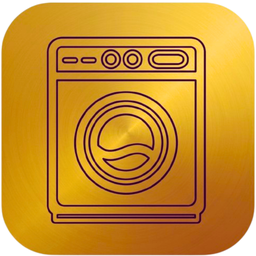
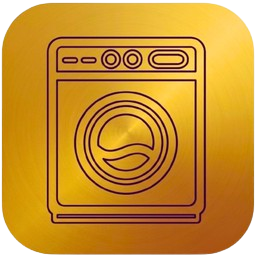
v2.6.1

diff --git a/custom_components/mielelogic/booking_manager.py b/custom_components/mielelogic/booking_manager.py
@@ -1,4 +1,4 @@
-# VERSION = "2.5.4"
+# VERSION = "2.6.1"
 """Manage booking and cancellation operations."""
 import logging
 from typing import Dict, List
@@ -13,11 +13,23 @@ _LOGGER = logging.getLogger(__name__)
 class BookingManager:
     """Handle booking and cancellation logic."""
 
-    def __init__(self, coordinator, store=None, notification_manager=None):
+    def __init__(self, coordinator, store=None, notification_manager=None, caldav_client=None):
         self.coordinator = coordinator
         self.hass = coordinator.hass
         self.store = store
         self.notification_manager = notification_manager
+        # v2.6.0: optional direct CalDAV client, used only for deletion since
+        # HA's CalDAV integration doesn't support calendar.delete_event.
+        self.caldav_client = caldav_client
+
+    def _caldav_calendar_name(self, entity_id: str | None) -> str | None:
+        """Best-effort mapping from a HA calendar entity_id to its CalDAV display name."""
+        if not entity_id:
+            return None
+        state = self.hass.states.get(entity_id)
+        if state and state.attributes.get("friendly_name"):
+            return state.attributes["friendly_name"]
+        return None
 
     def _get_time_manager(self):
         """Get time_manager — prefer runtime_data."""
@@ -178,10 +190,6 @@ class BookingManager:
             if not target_calendar:
                 return
 
-            if not self.hass.services.has_service("calendar", "get_events"):
-                _LOGGER.debug("calendar.get_events not available — skipping calendar delete")
-                return
-
             time_manager = self._get_time_manager()
             vaskehus = time_manager.get_vaskehus_for_machine(machine_number) if time_manager else None
             if not vaskehus:
@@ -198,6 +206,30 @@ class BookingManager:
 
             window_start = (start_dt - timedelta(hours=1)).astimezone(ZoneInfo("UTC"))
             window_end   = (start_dt + timedelta(hours=1)).astimezone(ZoneInfo("UTC"))
+
+            # v2.6.0: try direct CalDAV deletion first — HA's CalDAV integration
+            # doesn't support calendar.delete_event (home-assistant/core#159784),
+            # so the service-based path below always fails silently for it.
+            if self.caldav_client:
+                calendar_name = self._caldav_calendar_name(target_calendar)
+                if calendar_name:
+                    deleted = await self.caldav_client.delete_event(
+                        calendar_name, summary, window_start, window_end
+                    )
+                    if deleted:
+                        if self.store:
+                            await self.store.async_remove_calendar_synced_event(machine_number, start_time)
+                        self.coordinator._created_events.discard((machine_number, start_time))
+                        _LOGGER.info("Deleted calendar event via CalDAV: %s at %s", summary, start_time)
+                        return
+                    _LOGGER.debug(
+                        "CalDAV direct delete found nothing for '%s' — falling back to HA calendar service",
+                        summary,
+                    )
+
+            if not self.hass.services.has_service("calendar", "get_events"):
+                _LOGGER.debug("calendar.get_events not available — skipping calendar delete")
+                return
 
             response = await self.hass.services.async_call(
                 "calendar", "get_events",
@@ -353,6 +385,21 @@ class BookingManager:
         window_end   = (start_dt + timedelta(hours=1)).astimezone(ZoneInfo("UTC"))
 
         for calendar_entity_id in secondary_calendars:
+            # v2.6.0: try direct CalDAV deletion first (see _delete_calendar_event)
+            if self.caldav_client:
+                calendar_name = self._caldav_calendar_name(calendar_entity_id)
+                if calendar_name:
+                    deleted = await self.caldav_client.delete_event(
+                        calendar_name, summary, window_start, window_end
+                    )
+                    if deleted:
+                        _LOGGER.info("Deleted secondary calendar event via CalDAV in %s", calendar_entity_id)
+                        continue
+                    _LOGGER.debug(
+                        "CalDAV direct delete found nothing on secondary '%s' — falling back to HA calendar service",
+                        calendar_entity_id,
+                    )
+
             try:
                 response = await self.hass.services.async_call(
                     "calendar", "get_events",

diff --git a/custom_components/mielelogic/caldav_client.py b/custom_components/mielelogic/caldav_client.py
@@ -1,0 +1,107 @@
+# VERSION = "2.6.1"
+"""Direct CalDAV client used only for deleting calendar events.
+
+Home Assistant's built-in CalDAV integration does not implement the
+DELETE_EVENT entity feature (see home-assistant/core#159784), so the
+`calendar.delete_event` service always fails for CalDAV-backed calendars
+even though `get_events`/`create_event` work fine. This module talks to
+the CalDAV server directly (via the `caldav` package) to find and delete
+the matching event, bypassing the HA calendar entity for deletion only.
+Event creation still goes through `calendar.create_event` as before.
+"""
+import logging
+from datetime import datetime
+
+from homeassistant.core import HomeAssistant
+
+_LOGGER = logging.getLogger(__name__)
+
+
+class CalDAVDeleteClient:
+    """Minimal, read/delete-only CalDAV client.
+
+    Connects lazily on first use and caches the calendar list for the
+    lifetime of this instance (recreated on integration reload).
+    """
+
+    def __init__(self, hass: HomeAssistant, url: str, username: str, password: str) -> None:
+        self.hass = hass
+        self.url = url
+        self.username = username
+        self.password = password
+        self._calendars_by_name: dict | None = None
+
+    def _connect_and_list_calendars(self) -> dict:
+        """Blocking: connect to the CalDAV server and index calendars by display name."""
+        import caldav
+
+        client = caldav.DAVClient(url=self.url, username=self.username, password=self.password)
+        principal = client.principal()
+        result: dict = {}
+        for cal in principal.calendars():
+            try:
+                name = cal.get_display_name() or cal.name
+            except Exception:
+                name = getattr(cal, "name", None)
+            if name:
+                result[name] = cal
+        return result
+
+    async def _get_calendars(self) -> dict:
+        if self._calendars_by_name is None:
+            self._calendars_by_name = await self.hass.async_add_executor_job(
+                self._connect_and_list_calendars
+            )
+        return self._calendars_by_name
+
+    def _search_and_delete(self, cal, summary: str, window_start: datetime, window_end: datetime) -> bool:
+        """Blocking: search a time window on one calendar and delete the first summary match."""
+        events = cal.date_search(start=window_start, end=window_end)
+        for event in events:
+            try:
+                event.load()
+                event_summary = str(event.vobject_instance.vevent.summary.value)
+            except Exception:
+                continue
+            if event_summary == summary:
+                event.delete()
+                return True
+        return False
+
+    async def delete_event(
+        self, calendar_name: str, summary: str, window_start_utc: datetime, window_end_utc: datetime
+    ) -> bool:
+        """Find and delete the first event matching `summary` in the given UTC window.
+
+        Returns True if an event was found and deleted, False otherwise —
+        including when the calendar can't be matched by name or the
+        connection fails. Callers should fall back to the HA service path
+        (calendar.delete_event) when this returns False, in case the target
+        calendar is not CalDAV-backed or the name lookup didn't match.
+        """
+        try:
+            calendars = await self._get_calendars()
+        except Exception as err:
+            _LOGGER.warning("CalDAV: could not connect to %s: %s", self.url, err)
+            return False
+
+        cal = calendars.get(calendar_name)
+        if not cal:
+            _LOGGER.debug(
+                "CalDAV: calendar '%s' not found among %s", calendar_name, list(calendars.keys())
+            )
+            return False
+
+        try:
+            deleted = await self.hass.async_add_executor_job(
+                self._search_and_delete, cal, summary, window_start_utc, window_end_utc
+            )
+        except Exception as err:
+            _LOGGER.warning("CalDAV: delete failed for '%s' on '%s': %s", summary, calendar_name, err)
+            return False
+
+        if deleted:
+            _LOGGER.info("✅ CalDAV: deleted event '%s' from '%s'", summary, calendar_name)
+        else:
+            _LOGGER.debug("CalDAV: no matching event '%s' found on '%s'", summary, calendar_name)
+        return deleted

diff --git a/custom_components/mielelogic/config_flow.py b/custom_components/mielelogic/config_flow.py
@@ -1,4 +1,4 @@
-# VERSION = "2.5.4"
+# VERSION = "2.6.1"
 import logging
 import aiohttp
 import voluptuous as vol
@@ -26,6 +26,9 @@ from .const import (
     DEFAULT_REQUIRE_ADMIN,
     CONF_PRIMARY_CALENDAR,
     CONF_SECONDARY_CALENDARS,
+    CONF_CALDAV_URL,
+    CONF_CALDAV_USERNAME,
+    CONF_CALDAV_PASSWORD,
 )
 
 _LOGGER = logging.getLogger(__name__)
@@ -440,6 +443,15 @@ class MieleLogicOptionsFlowHandler(config_entries.OptionsFlow):
 
                 new_data[CONF_SECONDARY_CALENDARS] = secondary
 
+                # v2.6.0: direct CalDAV credentials (used only for deletion —
+                # HA's CalDAV integration doesn't support calendar.delete_event)
+                new_data[CONF_CALDAV_URL] = user_input.get("caldav_url") or None
+                new_data[CONF_CALDAV_USERNAME] = user_input.get("caldav_username") or None
+                # Only overwrite the stored password if a new one was entered —
+                # the field is always shown blank, so an empty submit means "keep existing".
+                if user_input.get("caldav_password"):
+                    new_data[CONF_CALDAV_PASSWORD] = user_input["caldav_password"]
+
                 if not errors:
                     self.hass.config_entries.async_update_entry(
                         self.config_entry, data=new_data
@@ -458,6 +470,9 @@ class MieleLogicOptionsFlowHandler(config_entries.OptionsFlow):
         )
         current_secondary = self.config_entry.data.get(CONF_SECONDARY_CALENDARS, [])
         current_secondary_text = ", ".join(current_secondary)
+        current_caldav_url = self.config_entry.data.get(CONF_CALDAV_URL, "")
+        current_caldav_username = self.config_entry.data.get(CONF_CALDAV_USERNAME, "")
+        has_caldav_password = bool(self.config_entry.data.get(CONF_CALDAV_PASSWORD))
 
         schema_dict = {}
 
@@ -468,6 +483,10 @@ class MieleLogicOptionsFlowHandler(config_entries.OptionsFlow):
             schema_dict[vol.Optional("primary_calendar", default=current_primary)] = str
 
         schema_dict[vol.Optional("secondary_calendars_text", default=current_secondary_text)] = str
+        # v2.6.0: direct CalDAV credentials (deletion only) — password never pre-filled
+        schema_dict[vol.Optional("caldav_url", default=current_caldav_url)] = str
+        schema_dict[vol.Optional("caldav_username", default=current_caldav_username)] = str
+        schema_dict[vol.Optional("caldav_password", default="")] = str
 
         return self.async_show_form(
             step_id="calendar",
@@ -477,6 +496,7 @@ class MieleLogicOptionsFlowHandler(config_entries.OptionsFlow):
                 "current_primary": current_primary or "Ingen",
                 "current_secondary": current_secondary_text or "Ingen",
                 "available_calendars": ", ".join(all_calendars) if all_calendars else "Ingen fundet",
+                "caldav_status": "gemt" if has_caldav_password else "ikke sat",
             },
         )
 

diff --git a/custom_components/mielelogic/__init__.py b/custom_components/mielelogic/__init__.py
@@ -1,4 +1,4 @@
-# VERSION = "2.5.5"
+# VERSION = "2.6.1"
 """The MieleLogic integration - Integrated Panel Edition."""
 import logging
 import asyncio
@@ -88,8 +88,20 @@ async def async_setup_entry(hass: HomeAssistant, entry: ConfigEntry) -> bool:
     
     from .notification_manager import NotificationManager
     notification_manager = NotificationManager(hass, store)
-    
-    booking_manager = BookingManager(coordinator, store, notification_manager)
+
+    # v2.6.0: optional direct CalDAV client, used only for deleting calendar
+    # events (HA's CalDAV integration doesn't support calendar.delete_event).
+    from .const import CONF_CALDAV_URL, CONF_CALDAV_USERNAME, CONF_CALDAV_PASSWORD
+    caldav_client = None
+    caldav_url = entry.data.get(CONF_CALDAV_URL)
+    caldav_username = entry.data.get(CONF_CALDAV_USERNAME)
+    caldav_password = entry.data.get(CONF_CALDAV_PASSWORD)
+    if caldav_url and caldav_username and caldav_password:
+        from .caldav_client import CalDAVDeleteClient
+        caldav_client = CalDAVDeleteClient(hass, caldav_url, caldav_username, caldav_password)
+        _LOGGER.debug("MieleLogic: direct CalDAV delete client configured")
+
+    booking_manager = BookingManager(coordinator, store, notification_manager, caldav_client)
     
     # runtime_data (v2.5.0 — replaces hass.data[DOMAIN][entry_id])
     entry.runtime_data = {
@@ -98,6 +110,7 @@ async def async_setup_entry(hass: HomeAssistant, entry: ConfigEntry) -> bool:
         "booking_manager": booking_manager,
         "notification_manager": notification_manager,
         "store": store,
+        "caldav_client": caldav_client,
     }
     hass.data.setdefault(DOMAIN, {})
     hass.data[DOMAIN][entry.entry_id] = entry.runtime_data

diff --git a/custom_components/mielelogic/coordinator.py b/custom_components/mielelogic/coordinator.py
@@ -1,4 +1,4 @@
-# VERSION = "2.5.4"
+# VERSION = "2.6.1"
 import logging
 import asyncio
 from datetime import datetime, timedelta
@@ -132,6 +132,11 @@ class MieleLogicDataUpdateCoordinator(DataUpdateCoordinator):
                             headers,
                         )
                 data["reservations"] = await self._fetch_with_retry(fetch_reservations, "Fetch reservations")
+                _LOGGER.debug(
+                    "📋 Reservations API response: %d active, MaxUserReservations=%s",
+                    len(data["reservations"].get("Reservations", [])),
+                    data["reservations"].get("MaxUserReservations"),
+                )
             except Exception as err:
                 _LOGGER.error("❌ Reservations unavailable: %s", err)
                 data["reservations"] = {"Reservations": [], "MaxUserReservations": 2, "error": str(err)}

diff --git a/custom_components/mielelogic/const.py b/custom_components/mielelogic/const.py
@@ -1,7 +1,7 @@
-# VERSION = "2.5.8"
+# VERSION = "2.6.1"
 """Constants for MieleLogic integration."""
 DOMAIN = "mielelogic"
-VERSION = "2.5.8"
+VERSION = "2.6.1"
 
 # API credentials
 CONF_USERNAME = "username"
@@ -33,3 +33,11 @@ DEFAULT_REQUIRE_ADMIN = False
 # Secondary: optional per-booking chips in panel, never auto-synced
 CONF_PRIMARY_CALENDAR = "primary_calendar"       # replaces sync_to_calendar
 CONF_SECONDARY_CALENDARS = "secondary_calendars"  # list[str] of entity_ids
+
+# Direct CalDAV credentials (v2.6.0)
+# HA's CalDAV integration doesn't support calendar.delete_event
+# (home-assistant/core#159784), so we talk to the CalDAV server directly
+# for deletion only. Creation still uses calendar.create_event as before.
+CONF_CALDAV_URL = "caldav_url"
+CONF_CALDAV_USERNAME = "caldav_username"
+CONF_CALDAV_PASSWORD = "caldav_password"

diff --git a/CHANGELOG.md b/CHANGELOG.md
@@ -16,6 +16,27 @@ Format: [Keep a Changelog](https://keepachangelog.com/en/1.0.0/)
 
 ---
 
+## [2.6.1] - 2026-08-22
+
+### Tilføjet — Debug-logging af reservations-API-svar
+- Under test af CalDAV-fixet stødte vi på en separat, endnu uforklaret fejl: `Booking failed: Maximum reservations reached (0/0)` — API'et returnerede tilsyneladende `MaxUserReservations: 0` under hurtige book/annullér-testcyklusser, hvilket blokerer al booking indtil næste opdatering.
+- `coordinator.py`: tilføjet debug-log af antal aktive reservationer og `MaxUserReservations` hver gang `/reservations`-endepunktet hentes, så vi kan se det rå API-svar næste gang det sker og finde den reelle årsag (MieleLogic-API-kvirk vs. cache-timing).
+- Ingen adfærdsændring endnu — kun observabilitet. Selve blokerings-logikken i `services.py` rørt ikke i denne omgang.
+
+---
+
+## [2.6.0] - 2026-08-22
+
+### Rettet — Kalenderevents slettes nu korrekt ved annullering (CalDAV)
+- Root cause fundet: Home Assistants indbyggede CalDAV-integration understøtter `calendar.create_event`/`get_events`, men **ikke** `calendar.delete_event` (åbent HA core-issue #159784). Da både primær (`calendar.kun_flemming`) og sekundær (`calendar.lukas`) kalender er CalDAV-baserede (iCloud), fejlede al kalender-sletning hidtil stille i baggrunden når en booking blev annulleret — selve bookingen blev annulleret korrekt, men eventet blev stående i kalenderen.
+- Ny `caldav_client.py`: minimal direkte CalDAV-klient (via `caldav`-pakken) der finder og sletter det matchende event direkte på CalDAV-serveren, uden om HA's kalender-entity. Oprettelse af events bruger stadig `calendar.create_event` som før — kun sletning er ændret.
+- `booking_manager.py`: `_delete_calendar_event()` og `_delete_secondary_calendar_events()` forsøger nu direkte CalDAV-sletning først (hvis konfigureret), og falder tilbage til den gamle `calendar.delete_event`-service-vej for ikke-CalDAV-kalendere (f.eks. Local Calendar, Google Calendar)
+- Nyt options-flow-trin under “Konfigurer Kalender Synkronisering”: valgfrie felter til CalDAV server-URL, brugernavn og app-specifik adgangskode — kun nødvendige hvis primær/sekundær kalender er CalDAV-baseret
+- Ny afhængighed: `caldav>=1.0.1` i `manifest.json`
+- Bonus-fix: rettede en eksisterende mismatch i `strings.json`/`da.json` hvor kalender-trinnets beskrivelse refererede ikke-eksisterende placeholders (`{primary}`/`{secondaries}`/`{hint}`) og feltnavnet `secondary_calendars` i stedet for det faktisk brugte `secondary_calendars_text`
+
+---
+
 ## [2.5.8] - 2026-08-21
 
 ### Tilføjet — Lokale brand-ikoner (HA 2026.3+)

diff --git a/README.md b/README.md
@@ -1,6 +1,6 @@
 # MieleLogic — Home Assistant Integration
 
-[![Version](https://img.shields.io/badge/version-2.5.6-blue.svg)](https://github.com/kingpainter/mielelogic/releases)
+[![Version](https://img.shields.io/badge/version-2.6.1-blue.svg)](https://github.com/kingpainter/mielelogic/releases)
 [![CI](https://github.com/kingpainter/mielelogic/actions/workflows/validate.yml/badge.svg)](https://github.com/kingpainter/mielelogic/actions/workflows/validate.yml)
 [![HACS](https://img.shields.io/badge/HACS-Custom-orange.svg)](https://github.com/hacs/integration)
 [![License](https://img.shields.io/badge/license-MIT-green.svg)](LICENSE.md)
